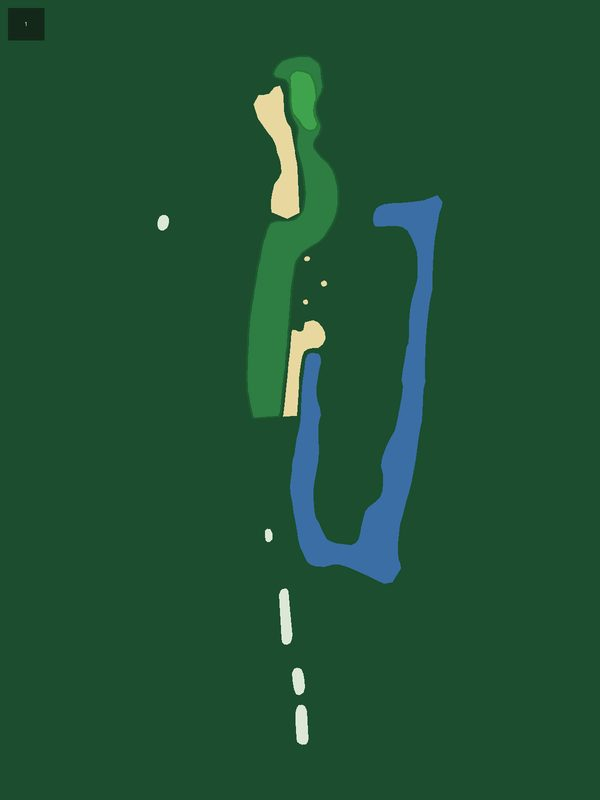
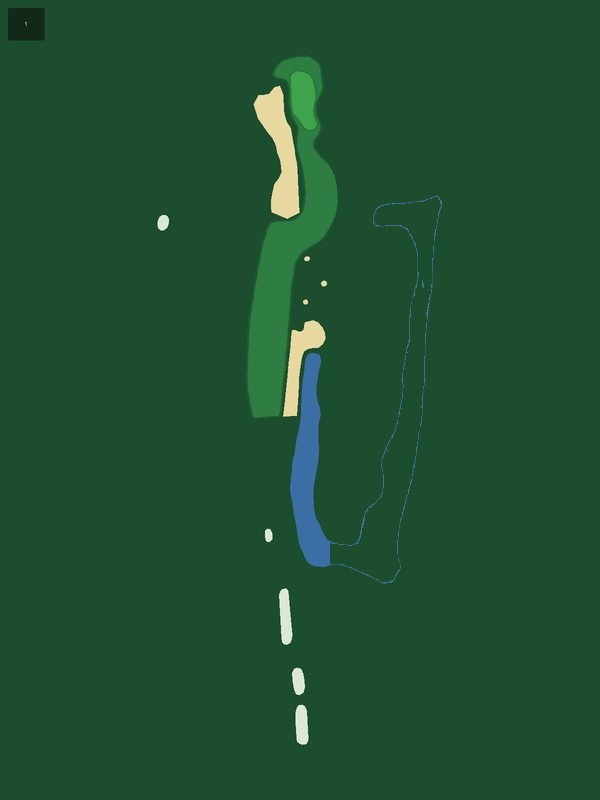
TPC Sawgrass: fix map geometry (H3 180° rotation, H4/H5/H7/H14 flips, H2/H9/H11 OSM cleanup) + 25 to-pin markers + distance scales

Changed region(s): [[0.54, 0.25, 0.75, 0.75]]

diff --git a/app/lib/widgets/hole_map_manifest.dart b/app/lib/widgets/hole_map_manifest.dart
@@ -232,23 +232,23 @@ const holeMapManifest = <String, Map<int, HoleMapAsset>>{
     18: HoleMapAsset(par: 4, map: 'assets/hole_maps/pinehurst-no-2/18.jpg', mask: 'assets/hole_maps/pinehurst-no-2/18_mask.png', tee: Offset(0.493, 0.907), pin: Offset(0.492, 0.126), source: 'mixed'),
   },
   'TPC Sawgrass': {
-    1: HoleMapAsset(par: 4, map: 'assets/hole_maps/tpc-sawgrass/1.jpg', mask: 'assets/hole_maps/tpc-sawgrass/1_mask.png', tee: Offset(0.505, 0.925), pin: Offset(0.506, 0.124), source: 'osm'),
+    1: HoleMapAsset(par: 4, map: 'assets/hole_maps/tpc-sawgrass/1.jpg', mask: 'assets/hole_maps/tpc-sawgrass/1_mask.png', tee: Offset(0.505, 0.925), pin: Offset(0.506, 0.124), source: 'osm', yardages: const [YardageMarker(offset: Offset(0.434, 0.536), yards: 229)]),
     2: HoleMapAsset(par: 5, map: 'assets/hole_maps/tpc-sawgrass/2.jpg', mask: 'assets/hole_maps/tpc-sawgrass/2_mask.png', tee: Offset(0.507, 0.925), pin: Offset(0.390, 0.117), source: 'osm'),
-    3: HoleMapAsset(par: 3, map: 'assets/hole_maps/tpc-sawgrass/3.jpg', mask: 'assets/hole_maps/tpc-sawgrass/3_mask.png', tee: Offset(0.363, 0.857), pin: Offset(0.740, 0.105), source: 'osm'),
-    4: HoleMapAsset(par: 4, map: 'assets/hole_maps/tpc-sawgrass/4.jpg', mask: 'assets/hole_maps/tpc-sawgrass/4_mask.png', tee: Offset(0.387, 0.893), pin: Offset(0.285, 0.090), source: 'osm'),
-    5: HoleMapAsset(par: 4, map: 'assets/hole_maps/tpc-sawgrass/5.jpg', mask: 'assets/hole_maps/tpc-sawgrass/5_mask.png', tee: Offset(0.761, 0.629), pin: Offset(0.607, 0.313), source: 'osm'),
-    6: HoleMapAsset(par: 4, map: 'assets/hole_maps/tpc-sawgrass/6.jpg', mask: 'assets/hole_maps/tpc-sawgrass/6_mask.png', tee: Offset(0.552, 0.925), pin: Offset(0.845, 0.132), source: 'osm'),
-    7: HoleMapAsset(par: 4, map: 'assets/hole_maps/tpc-sawgrass/7.jpg', mask: 'assets/hole_maps/tpc-sawgrass/7_mask.png', tee: Offset(0.542, 0.867), pin: Offset(0.210, 0.286), source: 'osm'),
-    8: HoleMapAsset(par: 3, map: 'assets/hole_maps/tpc-sawgrass/8.jpg', mask: 'assets/hole_maps/tpc-sawgrass/8_mask.png', tee: Offset(0.625, 0.916), pin: Offset(0.625, 0.147), source: 'osm'),
-    9: HoleMapAsset(par: 5, map: 'assets/hole_maps/tpc-sawgrass/9.jpg', mask: 'assets/hole_maps/tpc-sawgrass/9_mask.png', tee: Offset(0.472, 0.658), pin: Offset(0.427, 0.504), source: 'osm'),
+    3: HoleMapAsset(par: 3, map: 'assets/hole_maps/tpc-sawgrass/3.jpg', mask: 'assets/hole_maps/tpc-sawgrass/3_mask.png', tee: Offset(0.637, 0.143), pin: Offset(0.260, 0.895), source: 'osm', yardsPerPixel: 0.1396, yardages: const [YardageMarker(offset: Offset(0.381, 0.911), yards: 8), YardageMarker(offset: Offset(0.471, 0.904), yards: 14), YardageMarker(offset: Offset(0.491, 0.429), yards: 112)]),
+    4: HoleMapAsset(par: 4, map: 'assets/hole_maps/tpc-sawgrass/4.jpg', mask: 'assets/hole_maps/tpc-sawgrass/4_mask.png', tee: Offset(0.387, 0.107), pin: Offset(0.285, 0.910), source: 'osm'),
+    5: HoleMapAsset(par: 4, map: 'assets/hole_maps/tpc-sawgrass/5.jpg', mask: 'assets/hole_maps/tpc-sawgrass/5_mask.png', tee: Offset(0.239, 0.629), pin: Offset(0.393, 0.313), source: 'osm', yardages: const [YardageMarker(offset: Offset(0.193, 0.377), yards: 184), YardageMarker(offset: Offset(0.212, 0.511), yards: 342)]),
+    6: HoleMapAsset(par: 4, map: 'assets/hole_maps/tpc-sawgrass/6.jpg', mask: 'assets/hole_maps/tpc-sawgrass/6_mask.png', tee: Offset(0.552, 0.925), pin: Offset(0.845, 0.132), source: 'osm', yardsPerPixel: 0.2883),
+    7: HoleMapAsset(par: 4, map: 'assets/hole_maps/tpc-sawgrass/7.jpg', mask: 'assets/hole_maps/tpc-sawgrass/7_mask.png', tee: Offset(0.458, 0.867), pin: Offset(0.790, 0.286), source: 'osm', yardsPerPixel: 0.3331, yardages: const [YardageMarker(offset: Offset(0.718, 0.477), yards: 162), YardageMarker(offset: Offset(0.720, 0.508), yards: 180), YardageMarker(offset: Offset(0.722, 0.541), yards: 196), YardageMarker(offset: Offset(0.446, 0.792), yards: 408)]),
+    8: HoleMapAsset(par: 3, map: 'assets/hole_maps/tpc-sawgrass/8.jpg', mask: 'assets/hole_maps/tpc-sawgrass/8_mask.png', tee: Offset(0.625, 0.916), pin: Offset(0.625, 0.147), source: 'osm', yardsPerPixel: 0.1537, yardages: const [YardageMarker(offset: Offset(0.598, 0.071), yards: -10), YardageMarker(offset: Offset(0.534, 0.106), yards: -3), YardageMarker(offset: Offset(0.733, 0.127), yards: 3), YardageMarker(offset: Offset(0.678, 0.185), yards: 21), YardageMarker(offset: Offset(0.503, 0.213), yards: 29), YardageMarker(offset: Offset(0.608, 0.278), yards: 48)]),
+    9: HoleMapAsset(par: 5, map: 'assets/hole_maps/tpc-sawgrass/9.jpg', mask: 'assets/hole_maps/tpc-sawgrass/9_mask.png', tee: Offset(0.500, 0.930), pin: Offset(0.500, 0.125), source: 'osm', yardsPerPixel: 0.42, yardages: const [YardageMarker(offset: Offset(0.597, 0.707), yards: 427)]),
     10: HoleMapAsset(par: 4, map: 'assets/hole_maps/tpc-sawgrass/10.jpg', mask: 'assets/hole_maps/tpc-sawgrass/10_mask.png', tee: Offset(0.484, 0.801), pin: Offset(0.481, 0.101), source: 'osm'),
-    11: HoleMapAsset(par: 5, map: 'assets/hole_maps/tpc-sawgrass/11.jpg', mask: 'assets/hole_maps/tpc-sawgrass/11_mask.png', tee: Offset(0.497, 0.926), pin: Offset(0.498, 0.118), source: 'osm'),
-    12: HoleMapAsset(par: 4, map: 'assets/hole_maps/tpc-sawgrass/12.jpg', mask: 'assets/hole_maps/tpc-sawgrass/12_mask.png', tee: Offset(0.423, 0.916), pin: Offset(0.421, 0.136), source: 'osm'),
-    13: HoleMapAsset(par: 3, map: 'assets/hole_maps/tpc-sawgrass/13.jpg', mask: 'assets/hole_maps/tpc-sawgrass/13_mask.png', tee: Offset(0.579, 0.895), pin: Offset(0.580, 0.312), source: 'osm'),
-    14: HoleMapAsset(par: 4, map: 'assets/hole_maps/tpc-sawgrass/14.jpg', mask: 'assets/hole_maps/tpc-sawgrass/14_mask.png', tee: Offset(0.483, 0.903), pin: Offset(0.483, 0.209), source: 'osm'),
+    11: HoleMapAsset(par: 5, map: 'assets/hole_maps/tpc-sawgrass/11.jpg', mask: 'assets/hole_maps/tpc-sawgrass/11_mask.png', tee: Offset(0.497, 0.926), pin: Offset(0.498, 0.118), source: 'osm', yardsPerPixel: 0.409, yardages: const [YardageMarker(offset: Offset(0.589, 0.502), yards: 277)]),
+    12: HoleMapAsset(par: 4, map: 'assets/hole_maps/tpc-sawgrass/12.jpg', mask: 'assets/hole_maps/tpc-sawgrass/12_mask.png', tee: Offset(0.423, 0.916), pin: Offset(0.421, 0.136), source: 'osm', yardsPerPixel: 0.2718, yardages: const [YardageMarker(offset: Offset(0.824, 0.503), yards: 160)]),
+    13: HoleMapAsset(par: 3, map: 'assets/hole_maps/tpc-sawgrass/13.jpg', mask: 'assets/hole_maps/tpc-sawgrass/13_mask.png', tee: Offset(0.579, 0.895), pin: Offset(0.580, 0.312), source: 'osm', yardsPerPixel: 0.1437, yardages: const [YardageMarker(offset: Offset(0.584, 0.381), yards: 18), YardageMarker(offset: Offset(0.729, 0.336), yards: 16), YardageMarker(offset: Offset(0.697, 0.429), yards: 32)]),
+    14: HoleMapAsset(par: 4, map: 'assets/hole_maps/tpc-sawgrass/14.jpg', mask: 'assets/hole_maps/tpc-sawgrass/14_mask.png', tee: Offset(0.517, 0.903), pin: Offset(0.517, 0.209), source: 'osm'),
     15: HoleMapAsset(par: 4, map: 'assets/hole_maps/tpc-sawgrass/15.jpg', mask: 'assets/hole_maps/tpc-sawgrass/15_mask.png', tee: Offset(0.569, 0.917), pin: Offset(0.568, 0.114), source: 'osm'),
     16: HoleMapAsset(par: 5, map: 'assets/hole_maps/tpc-sawgrass/16.jpg', mask: 'assets/hole_maps/tpc-sawgrass/16_mask.png', tee: Offset(0.509, 0.828), pin: Offset(0.507, 0.096), source: 'osm'),
-    17: HoleMapAsset(par: 3, map: 'assets/hole_maps/tpc-sawgrass/17.jpg', mask: 'assets/hole_maps/tpc-sawgrass/17_mask.png', tee: Offset(0.339, 0.896), pin: Offset(0.344, 0.329), source: 'osm'),
+    17: HoleMapAsset(par: 3, map: 'assets/hole_maps/tpc-sawgrass/17.jpg', mask: 'assets/hole_maps/tpc-sawgrass/17_mask.png', tee: Offset(0.339, 0.896), pin: Offset(0.344, 0.329), source: 'osm', yardsPerPixel: 0.1088, yardages: const [YardageMarker(offset: Offset(0.001, 0.380), yards: 19), YardageMarker(offset: Offset(0.387, 0.325), yards: 10), YardageMarker(offset: Offset(0.378, 0.832), yards: 125)]),
     18: HoleMapAsset(par: 4, map: 'assets/hole_maps/tpc-sawgrass/18.jpg', mask: 'assets/hole_maps/tpc-sawgrass/18_mask.png', tee: Offset(0.562, 0.904), pin: Offset(0.559, 0.112), source: 'osm'),
   },
   'TPC Scottsdale': {
